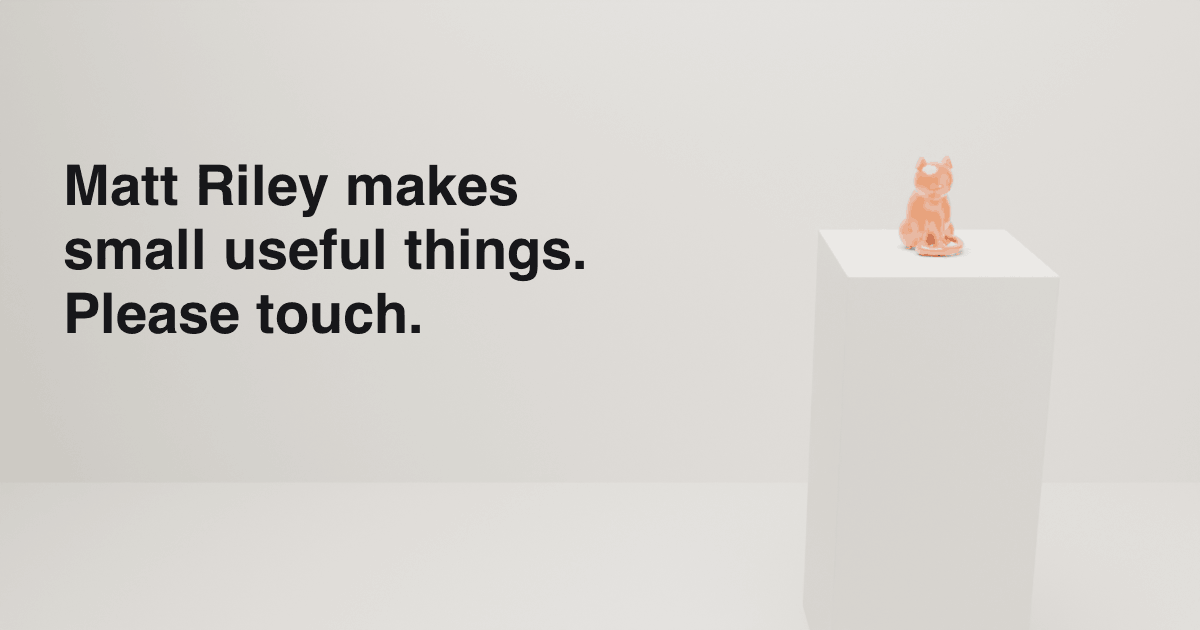
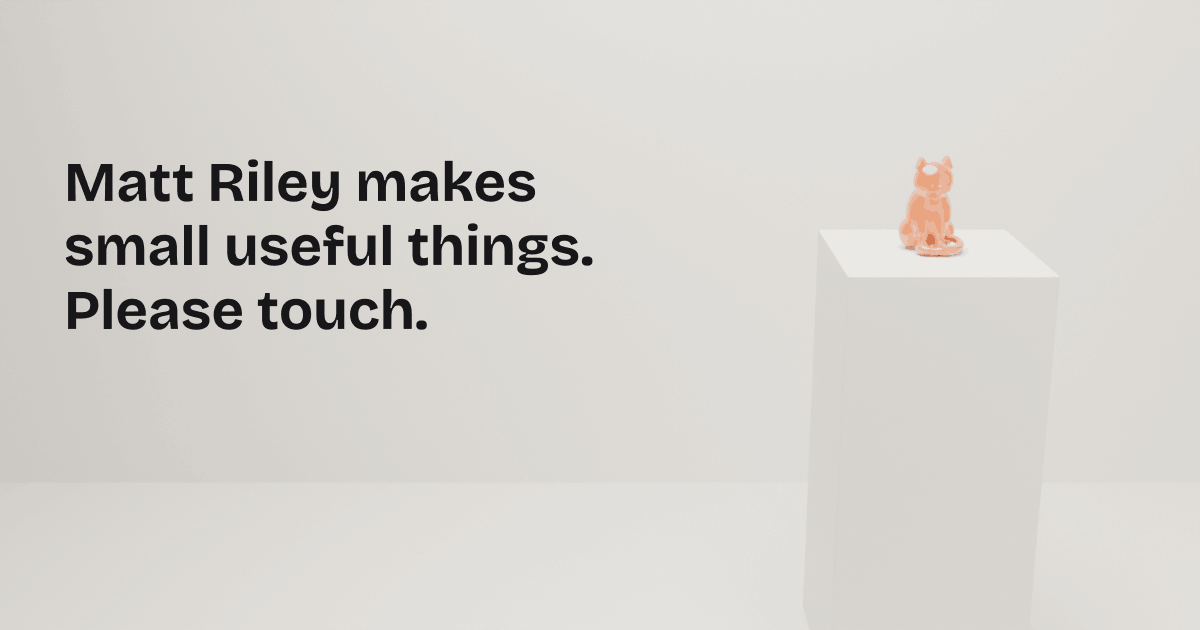
fix: render the actual Bricolage outlines without font fallback

Changed region(s): [[0.0308, 0.2413, 0.4933, 0.5429]]

diff --git a/blender/render_catalogue.py b/blender/render_catalogue.py
@@ -13,7 +13,7 @@ from pathlib import Path
 import sys
 
 import bpy
-from mathutils import Vector
+from mathutils import Matrix, Vector
 
 ROOT = Path(__file__).resolve().parent
 sys.path.insert(0, str(ROOT))
@@ -108,7 +108,11 @@ def assemble(raw):
         if stop == 7:
             # Runtime rotates around glTF Y by pi: Blender's equivalent is Z.
             # The cat pointedly looks away from the fallen porcelain fragments.
-            pose.rotation_euler.rotate_axis("Z", math.pi)
+            # Imported nodes can retain QUATERNION rotation mode. Apply a world
+            # matrix rotation about the pivot instead of writing ignored Euler data.
+            centre = marker.matrix_world.translation
+            turn = Matrix.Translation(centre) @ Matrix.Rotation(math.pi, 4, "Z") @ Matrix.Translation(-centre)
+            pose.matrix_world = turn @ pose.matrix_world
     for obj in cat_objects:
         obj.hide_render = True
     # The original approved photograph is the only photographic texture; UV0 is

diff --git a/docs/qa/s-03/verification.md b/docs/qa/s-03/verification.md
@@ -13,3 +13,9 @@ This is a documented contributor walkthrough and independent source review, not 
 Astro check: zero errors, warnings or hints. Biome lint passes; both Python renderer sources parse successfully. The new opaque Apple/manifest icons are generated from the native SVG at exactly 180/192/512px. All production and development dependencies have a corresponding source import, build command or test use; no unused package was removed speculatively. The former styleguide route was already removed in C-06. A case-insensitive legacy-name search across the isolated worktree returns no matches, excluding only node_modules and Git metadata (including ignored render intermediates and binary files).
 
 Final share-image rendering, two actual preview-tool screenshots, browser-tab theme screenshots and refreshed canonical-cat photographs remain pending the coordinated render/browser slot. No deployment or production preview verification has been claimed.
+
+## Share-image source and typography
+
+The sitting-cat scene rendered in 16.6 seconds on four low-priority CPU threads at 16 denoised samples. The 1200×630 PNG is 166,048 bytes. Its text is built from the actual bundled Bricolage Grotesque glyph paths using Fontkit at weight 700, then rasterised/composited by Sharp. The bundled font’s internal family is `Bricolage Grotesque 96pt ExtraBold`, so a plain CSS-style Pango name is insufficient proof of the chosen font on macOS. Outline extraction removes OS discovery/fallback entirely. `blender/renders/identity/typography.json` records the real family, weight, exact text and font SHA256; the adjacent parameters record the Cycles scene settings.
+
+Human/Gift original renders are staged under ignored output. The Human cat turnaround uses a world-matrix rotation because imported GLBs can retain quaternion mode; a one-third-size preview verified the back-facing silhouette before the final full-size pass. Remaining floor photographs are held for final geometry-occlusion approval. Browser/theme and two-tool link-preview acceptance criteria remain open.

diff --git a/README.md b/README.md
@@ -35,7 +35,7 @@ pnpm assets:identity
 
 `pnpm assets:stills` renders 36 day/night, wide/square photographs from the raw GLBs, validates the complete set and copies them to `src/assets/catalogue/`. Blender cannot import the Meshopt web derivatives. Astro generates responsive AVIF/WebP derivatives at build time; mobile photographs must remain below 90KB. See [catalogue photography](blender/CATALOGUE.md) for constrained render/resume commands. Existing complete renders can be copied with `pnpm assets:stills -- --copy-only`.
 
-`pnpm assets:identity` renders the sitting cat share image with `blender/render_og.py`, composites the bundled Bricolage Grotesque text using Sharp, and creates the Apple/manifest icons from `public/favicon.svg`. `-- --copy-only` reuses the existing share render; `-- --icons-only` rebuilds only icons. The final 1200×630 PNG must be below 200KB. Render intermediates and font caches stay in ignored output.
+`pnpm assets:identity` renders the sitting cat share image with `blender/render_og.py`, extracts the bundled Bricolage Grotesque glyph outlines with Fontkit and composites them using Sharp, and creates the Apple/manifest icons from `public/favicon.svg`. `-- --copy-only` reuses the existing share render; `-- --icons-only` rebuilds only icons. The final 1200×630 PNG must be below 200KB. Render intermediates and font provenance stay in ignored output.
 
 Material factories, export axes, pivot metadata, room anchors and budgets are documented in [the asset pipeline](blender/README.md). The approved P2/G2 porcelain/glaze palette is shared by every source. Generated source PNGs and optimised GLBs are checked in; local builds and CI do not need Blender unless changing assets.
 
